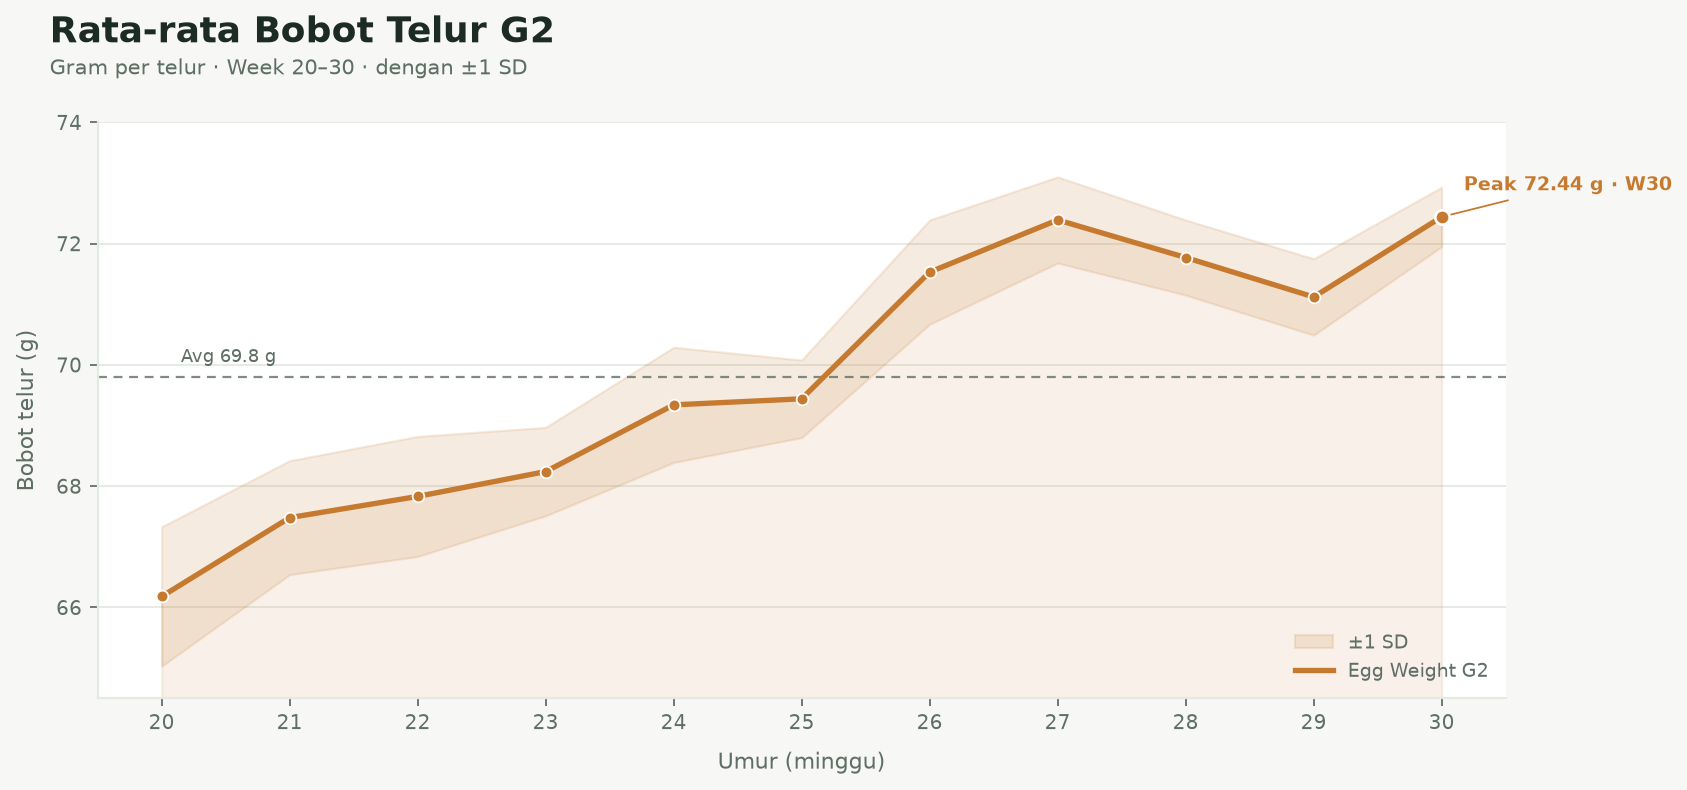
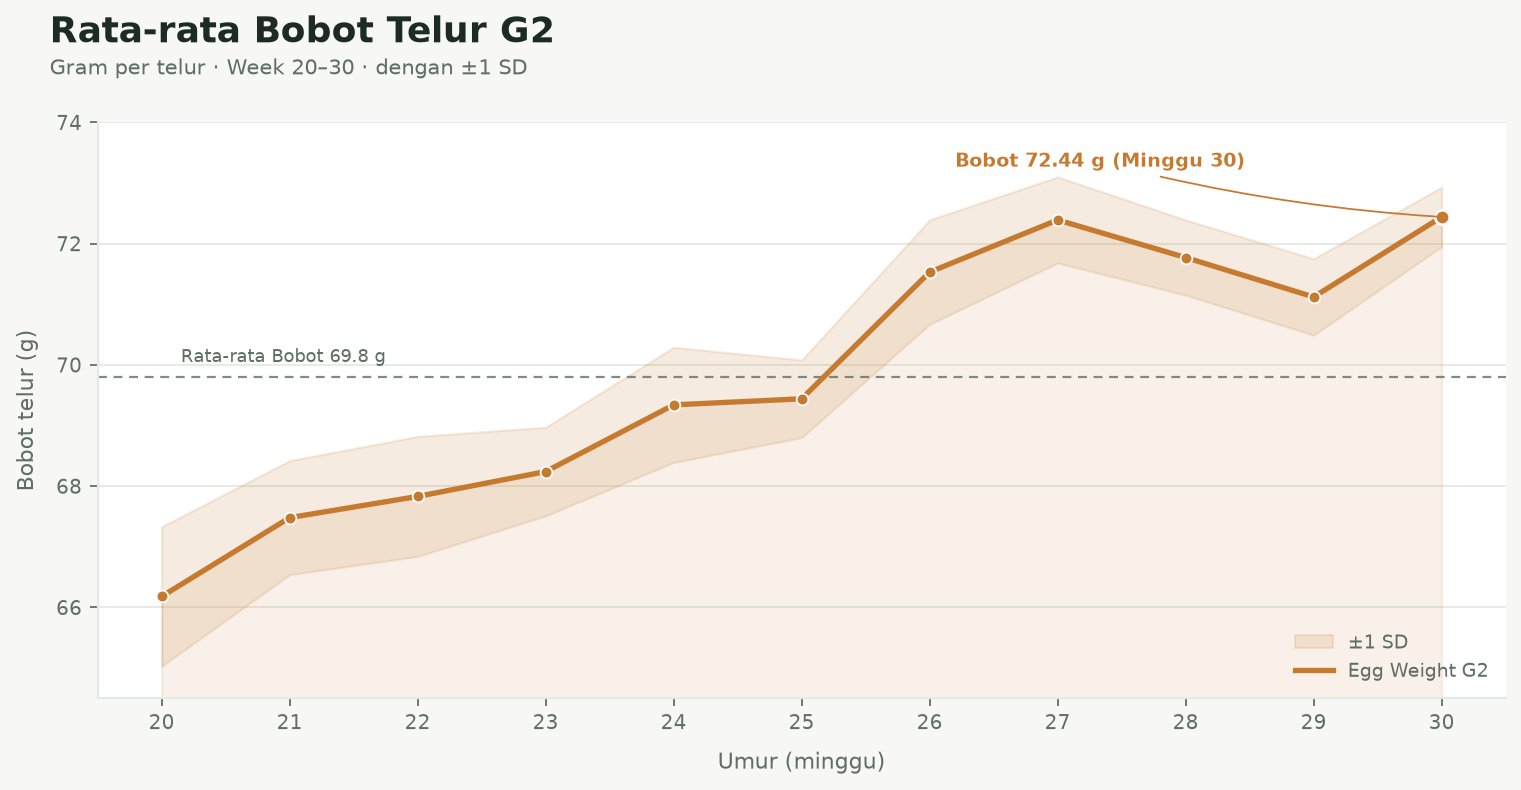
Perbaiki label grafik Egg Weight G2
Ganti Avg menjadi Rata-rata Bobot 69.8 g, Peak menjadi Bobot 72.44 g
(Minggu 30), dan geser label puncak ke kiri agar tetap di dalam kotak.

diff --git a/charts/dashboard.html b/charts/dashboard.html
@@ -374,8 +374,26 @@
           ...baseOpts.plugins,
           annotation: {
             annotations: {
-              peak: { type: "line", yMin: 72.44, yMax: 72.44, borderColor: "#c67a2f", borderWidth: 1, borderDash: [5,4], label: { display: true, content: "Peak 72.44 g", position: "end", backgroundColor: "#c67a2f", color: "#fff", font: { size: 10 } } },
-              avg: { type: "line", yMin: avgEW, yMax: avgEW, borderColor: "#5f6f66", borderWidth: 1, borderDash: [3,3], label: { display: true, content: `Avg ${avgEW} g`, position: "start", backgroundColor: "#5f6f66", color: "#fff", font: { size: 10 } } },
+              peak: {
+                type: "point",
+                xValue: 10,
+                yValue: 72.44,
+                backgroundColor: "#c67a2f",
+                borderColor: "#fff",
+                borderWidth: 2,
+                radius: 5,
+                label: {
+                  display: true,
+                  content: "Bobot 72.44 g (Minggu 30)",
+                  position: "left",
+                  backgroundColor: "#c67a2f",
+                  color: "#fff",
+                  font: { size: 10, weight: "600" },
+                  padding: 4,
+                  yAdjust: -14,
+                },
+              },
+              avg: { type: "line", yMin: avgEW, yMax: avgEW, borderColor: "#5f6f66", borderWidth: 1, borderDash: [3,3], label: { display: true, content: `Rata-rata Bobot ${avgEW} g`, position: "start", backgroundColor: "#5f6f66", color: "#fff", font: { size: 10 } } },
             },
           },
         },

diff --git a/scripts/generate_charts.py b/scripts/generate_charts.py
@@ -208,17 +208,47 @@ def chart_egg_weight() -> Path:
     ax.scatter(EW_WEEKS, EW_WEIGHT, s=28, color=EW_COLOR, zorder=4, edgecolors="white", linewidths=0.8)
 
     peak_i = int(np.argmax(EW_WEIGHT))
-    annotate_peak(
-        ax,
-        EW_WEEKS[peak_i],
-        EW_WEIGHT[peak_i],
-        f"Peak {EW_WEIGHT[peak_i]:.2f} g · W{EW_WEEKS[peak_i]}",
-        EW_COLOR,
+    peak_x = float(EW_WEEKS[peak_i])
+    peak_y = float(EW_WEIGHT[peak_i])
+    ax.scatter(
+        [peak_x],
+        [peak_y],
+        s=42,
+        color=EW_COLOR,
+        zorder=5,
+        edgecolors="white",
+        linewidths=1.2,
+    )
+    # Place label left of the peak, above the curve, fully inside the plot box
+    ax.annotate(
+        f"Bobot {peak_y:.2f} g (Minggu {int(peak_x)})",
+        xy=(peak_x, peak_y),
+        xytext=(26.2, 73.35),
+        textcoords="data",
+        fontsize=8.5,
+        color=EW_COLOR,
+        fontweight="600",
+        ha="left",
+        va="center",
+        arrowprops=dict(
+            arrowstyle="-",
+            color=EW_COLOR,
+            lw=0.8,
+            connectionstyle="arc3,rad=0.05",
+        ),
+        clip_on=True,
+        zorder=6,
     )
 
     avg = float(EW_WEIGHT.mean())
     ax.axhline(avg, color=MUTED, lw=1, ls=(0, (4, 3)), alpha=0.8, zorder=2)
-    ax.text(EW_WEEKS[0] + 0.15, avg + 0.25, f"Avg {avg:.1f} g", fontsize=8, color=MUTED)
+    ax.text(
+        EW_WEEKS[0] + 0.15,
+        avg + 0.25,
+        f"Rata-rata Bobot {avg:.1f} g",
+        fontsize=8,
+        color=MUTED,
+    )
 
     style_axes(ax, "Bobot telur (g)")
     ax.set_xlim(19.5, 30.5)
